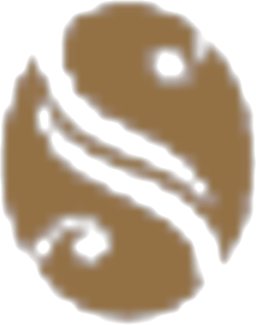
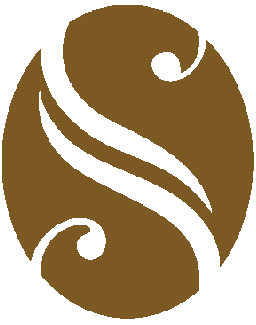
Edits

diff --git a/assets/css/style.css b/assets/css/style.css
@@ -223,8 +223,8 @@ html[dir="rtl"] .btn .ic.arrow{transform:scaleX(-1);}
 .hero-bg img{width:100%;height:100%;object-fit:cover;transform:scale(1.06);animation:heroZoom 14s var(--ease-out) forwards;}
 @keyframes heroZoom{to{transform:scale(1);}}
 .hero-scrim{position:absolute;inset:0;z-index:1;
-  background:linear-gradient(105deg,rgba(13,11,9,.94) 8%,rgba(13,11,9,.7) 42%,rgba(13,11,9,.32) 78%),linear-gradient(0deg,rgba(13,11,9,.9),rgba(13,11,9,0) 45%);}
-html[dir="rtl"] .hero-scrim{background:linear-gradient(255deg,rgba(13,11,9,.94) 8%,rgba(13,11,9,.7) 42%,rgba(13,11,9,.32) 78%),linear-gradient(0deg,rgba(13,11,9,.9),rgba(13,11,9,0) 45%);}
+  background:linear-gradient(105deg,rgba(13,11,9,.68) 8%,rgba(13,11,9,.42) 42%,rgba(13,11,9,.14) 78%),linear-gradient(0deg,rgba(13,11,9,.58),rgba(13,11,9,0) 45%);}
+html[dir="rtl"] .hero-scrim{background:linear-gradient(255deg,rgba(13,11,9,.68) 8%,rgba(13,11,9,.42) 42%,rgba(13,11,9,.14) 78%),linear-gradient(0deg,rgba(13,11,9,.58),rgba(13,11,9,0) 45%);}
 .hero-watermark{position:absolute;bottom:8%;inset-inline-start:0;width:100%;text-align:center;pointer-events:none;z-index:1;
   font-family:var(--font-display);font-weight:700;font-size:clamp(5rem,22vw,18rem);line-height:1;letter-spacing:.04em;
   color:rgba(243,237,225,.05);user-select:none;white-space:nowrap;}
@@ -240,13 +240,12 @@ html[lang="ar"] .hero-watermark{font-family:var(--font-ar-display);}
 html[lang="ar"] .hero h1.h-display .accent{font-family:var(--font-ar-serif);font-style:normal;}
 html[lang="ar"] .hero h1.h-display{line-height:1.28;}
 .hero .lead{color:rgba(243,237,225,.84);margin:26px 0 38px;max-width:520px;}
-.hero-cta{display:flex;flex-wrap:wrap;gap:16px;}
 
 /* floating stone medallion straddling hero/about seam */
 .rock-seam{position:relative;height:0;z-index:30;}
 .rock{position:absolute;left:50%;transform:translate(-50%,50%);bottom:0;
   width:clamp(170px,19vw,225px);aspect-ratio:1/1.02;
-  background-image:url('/assets/brand/stone-float.png');background-size:contain;background-repeat:no-repeat;background-position:center;
+  background-image:url('/assets/brand/shell-stone.png');background-size:contain;background-repeat:no-repeat;background-position:center;
   filter:drop-shadow(0 4px 10px rgba(13,11,9,.55)) drop-shadow(0 4px 10px rgba(13,11,9,.4));
   animation:rockFloat 6s ease-in-out infinite;}
 @keyframes rockFloat{0%,100%{transform:translate(-50%,50%)}50%{transform:translate(-50%,calc(50% - 12px))}}
@@ -301,11 +300,6 @@ html[lang="ar"] .strength{font-family:var(--font-ar-serif);font-size:1.02rem;}
   letter-spacing:.14em;font-size:14px;color:var(--ink-900);}
 html[lang="ar"] .about-stat__lbl{font-family:var(--font-ar-display);letter-spacing:0;text-transform:none;font-size:17px;}
 
-.about-swatches{grid-column:1;grid-row:2;display:grid;grid-template-columns:repeat(3,1fr);gap:0px;align-content:start;z-index:2;}
-.about-swatch{display:block;aspect-ratio:1/1;border-radius:0px;background-size:cover;background-position:center;
-  box-shadow:var(--shadow-sm);transition:transform var(--dur-base) var(--ease-out);}
-.about-swatch:hover{transform:scale(1.05);}
-
 .about-figure{grid-column:2;grid-row:1 / span 2;position:relative;margin:0;overflow:visible;}
 .about-figure img{position:relative;width:120%;height:120%;max-width:120%;bottom:30%;right:30%;object-fit:cover;transition:transform var(--dur-slow) var(--ease-out);border-radius:10px;overflow:hidden;box-shadow:var(--shadow-lg);}
 html[lang="ar"] .about-figure img{right:-30%;}
@@ -323,7 +317,6 @@ html[lang="ar"] .about-figure__badge span{font-family:var(--font-ar-sans);}
   .about-showcase{grid-template-columns:1fr 1fr;grid-template-rows:auto auto;gap:20px;}
   .about-figure{grid-column:1 / -1;grid-row:1;}
   .about-stat{grid-column:1;grid-row:2;align-self:center;}
-  .about-swatches{grid-column:2;grid-row:2;}
   .about-figure img{position:relative;width:100%;height:100%;max-width:min(100%, 500px);bottom:0;right:0;margin:auto;}
   html[lang="ar"] .about-figure img{right:0;}
 }
@@ -331,7 +324,6 @@ html[lang="ar"] .about-figure__badge span{font-family:var(--font-ar-sans);}
   .about-showcase{grid-template-columns:1fr;grid-template-rows:auto auto auto;}
   .about-figure{grid-column:1;grid-row:1;}
   .about-stat{grid-column:1;grid-row:2;align-self:start;}
-  .about-swatches{grid-column:1;grid-row:3;}
 }
 
 
@@ -422,43 +414,31 @@ html[lang="ar"] .why__item-tx h4{font-family:var(--font-ar-display);}
 .why__item-tx p{font-size:var(--text-sm);color:var(--text-muted);margin:0;line-height:1.6;}
 
 /* ============================================================ JOURNEY (process steps) ============================================================ */
-.journey{background:var(--ink-900);position:relative;overflow:hidden;}
-.journey::before{content:"";position:absolute;inset:0;opacity:.05;
-  background-image:radial-gradient(rgba(176,138,60,.6) 1px,transparent 1px);background-size:24px 24px;}
-.journey .section-head h2{color:var(--stone-50);}
-.journey .section-head .lead{color:var(--text-on-dark-muted);}
+.journey{background:linear-gradient(135deg,var(--gold-300),var(--gold-500));position:relative;overflow:hidden;}
+.journey::before{content:"";position:absolute;inset:0;opacity:.08;
+  background-image:radial-gradient(rgba(13,11,9,.6) 1px,transparent 1px);background-size:24px 24px;}
+.journey .overline{color:var(--ink-800);}
+.journey .overline::before,.journey .overline::after{background:var(--ink-700);}
+.journey .section-head h2{color:var(--ink-900);}
+.journey .section-head .lead{color:var(--ink-700);}
 .journey__steps{position:relative;display:grid;grid-template-columns:repeat(4,1fr);gap:var(--space-5);margin-top:var(--space-8);}
 @media(max-width:880px){.journey__steps{grid-template-columns:1fr 1fr;gap:var(--space-7) var(--space-5);}}
 @media(max-width:520px){.journey__steps{grid-template-columns:1fr;}}
 .jstep{position:relative;text-align:center;padding:0 var(--space-3);}
-.jstep__line{position:absolute;top:34px;height:1px;background:linear-gradient(90deg,transparent,rgba(176,138,60,.35),transparent);width:100%;z-index:0;}
+.jstep__line{position:absolute;top:34px;height:1px;background:linear-gradient(90deg,transparent,rgba(13,11,9,.3),transparent);width:100%;z-index:0;}
 html[dir="ltr"] .jstep__line{left:50%;}
 html[dir="rtl"] .jstep__line{right:50%;}
 .jstep:last-child .jstep__line{display:none;}
 @media(max-width:880px){.jstep__line{display:none;}}
 .jstep__num{position:relative;z-index:1;width:68px;height:68px;margin:0 auto var(--space-5);border-radius:var(--radius-circle);
-  background:var(--ink-800);border:1px solid rgba(176,138,60,.4);display:flex;align-items:center;justify-content:center;
-  font-family:var(--font-display);font-size:var(--text-xl);color:var(--gold-300);transition:all var(--dur-base) var(--ease-out);}
-.jstep:hover .jstep__num{background:var(--gold-500);color:var(--ink-900);border-color:var(--gold-500);transform:translateY(-4px);box-shadow:0 10px 26px rgba(176,138,60,.35);}
-.jstep__ic{position:absolute;bottom:-6px;right:-6px;width:28px;height:28px;border-radius:var(--radius-circle);background:var(--gold-500);
-  display:flex;align-items:center;justify-content:center;color:var(--ink-900);}
-.jstep h4{font-family:var(--font-display);font-size:var(--text-lg);color:var(--stone-50);margin-bottom:.4em;letter-spacing:.03em;}
+  background:var(--ink-900);border:1px solid rgba(13,11,9,.5);display:flex;align-items:center;justify-content:center;
+  font-family:var(--font-display);font-size:var(--text-xl);color:var(--gold-200);transition:all var(--dur-base) var(--ease-out);}
+.jstep:hover .jstep__num{background:var(--stone-50);color:var(--ink-900);border-color:var(--stone-50);transform:translateY(-4px);box-shadow:0 10px 26px rgba(13,11,9,.3);}
+.jstep__ic{position:absolute;bottom:-6px;right:-6px;width:28px;height:28px;border-radius:var(--radius-circle);background:var(--ink-900);
+  display:flex;align-items:center;justify-content:center;color:var(--gold-300);}
+.jstep h4{font-family:var(--font-display);font-size:var(--text-lg);color:var(--ink-900);margin-bottom:.4em;letter-spacing:.03em;}
 html[lang="ar"] .jstep h4{font-family:var(--font-ar-display);}
-.jstep p{font-size:var(--text-sm);color:var(--text-on-dark-muted);margin:0;line-height:1.6;}
-
-/* ============================================================ TESTIMONIAL ============================================================ */
-.testimonial{background:var(--surface-cream);position:relative;}
-.testimonial__inner{max-width:860px;margin:0 auto;text-align:center;}
-.testimonial__mark{font-family:var(--font-display);font-size:5rem;line-height:.6;color:var(--gold-300);margin-bottom:var(--space-4);}
-.testimonial__quote{font-family:var(--font-serif);font-size:clamp(1.5rem,3vw,var(--text-2xl));line-height:1.5;
-  color:var(--text-strong);font-style:italic;margin-bottom:var(--space-6);}
-html[lang="ar"] .testimonial__quote{font-family:var(--font-ar-serif);font-style:normal;}
-.testimonial__author{display:flex;flex-direction:column;align-items:center;gap:.3em;}
-.testimonial__author .nm{font-family:var(--font-display);font-size:var(--text-md);letter-spacing:.12em;color:var(--text-strong);}
-html[lang="ar"] .testimonial__author .nm{font-family:var(--font-ar-display);letter-spacing:.03em;}
-.testimonial__author .role{font-family:var(--font-sans);font-size:var(--text-xs);letter-spacing:.1em;text-transform:uppercase;color:var(--text-gold);}
-html[lang="ar"] .testimonial__author .role{font-family:var(--font-ar-sans);letter-spacing:.03em;}
-.testimonial__stars{display:flex;justify-content:center;gap:.25em;color:var(--gold-400);margin-bottom:var(--space-5);}
+.jstep p{font-size:var(--text-sm);color:var(--ink-800);margin:0;line-height:1.6;}
 
 /* ============================================================ PROJECTS ============================================================ */
 .projects{background:var(--surface-page);}

diff --git a/index.html b/index.html
@@ -79,7 +79,6 @@
   <div class="hero-watermark" data-i18n="hero.watermark">MARBLE</div>
   <div class="container">
     <div class="hero-inner">
-      <span class="overline reveal" data-i18n="hero.eyebrow">Latakia · Syria — From the quarry</span>
       <h1 class="h-display reveal reveal-delay-1">
         <span data-i18n="hero.title">The Main Source of</span>
         <span class="accent" data-i18n="hero.title.accent">Shell Stones</span>
@@ -87,13 +86,6 @@
       <p class="lead reveal reveal-delay-2" data-i18n="hero.sub">
         We extract, process and supply natural shell stone — limestone rich with shells and fossils — from our own quarries on the Syrian coast, with uncompromising quality and on-time delivery.
       </p>
-      <div class="hero-cta reveal reveal-delay-3">
-        <a href="#contact" class="btn btn-gold">
-          <span data-i18n="hero.cta">Contact Us</span>
-          <svg class="ic arrow" viewBox="0 0 24 24" fill="none" stroke="currentColor" stroke-width="2"><path d="M5 12h14M13 6l6 6-6 6"/></svg>
-        </a>
-        <a href="#projects" class="btn btn-ghost" data-i18n="hero.cta2">View Projects</a>
-      </div>
     </div>
   </div>
 </section>
@@ -142,15 +134,6 @@
       <div class="about-stat">
         <div class="about-stat__num">25<span class="about-stat__plus">+</span></div>
         <div class="about-stat__lbl" data-i18n="about.badge">Years in stone</div>
-      </div>
-
-      <div class="about-swatches" aria-hidden="true">
-        <span class="about-swatch" style="background-image:url('/assets/textures/perlato.jpg')"></span>
-        <span class="about-swatch" style="background-image:url('/assets/textures/desert-gold.jpg')"></span>
-        <span class="about-swatch" style="background-image:url('/assets/textures/shanoon-beige.jpg')"></span>
-        <span class="about-swatch" style="background-image:url('/assets/textures/cedar-beige.jpg')"></span>
-        <span class="about-swatch" style="background-image:url('/assets/textures/thorontia.jpg')"></span>
-        <span class="about-swatch" style="background-image:url('/assets/textures/shanoon-sand.jpg')"></span>
       </div>
 
       <figure class="about-figure">
@@ -323,27 +306,6 @@
   </div>
 </section>
 
-<!-- ============================================================ TESTIMONIAL ============================================================ -->
-<section class="section testimonial">
-  <div class="container">
-    <div class="testimonial__inner reveal">
-      <div class="testimonial__stars">
-        <svg width="20" height="20" viewBox="0 0 24 24" fill="currentColor"><path d="M12 2l2.4 7.4H22l-6 4.5 2.3 7.1-6.3-4.6L5.7 21 8 14 2 9.4h7.6z"/></svg>
-        <svg width="20" height="20" viewBox="0 0 24 24" fill="currentColor"><path d="M12 2l2.4 7.4H22l-6 4.5 2.3 7.1-6.3-4.6L5.7 21 8 14 2 9.4h7.6z"/></svg>
-        <svg width="20" height="20" viewBox="0 0 24 24" fill="currentColor"><path d="M12 2l2.4 7.4H22l-6 4.5 2.3 7.1-6.3-4.6L5.7 21 8 14 2 9.4h7.6z"/></svg>
-        <svg width="20" height="20" viewBox="0 0 24 24" fill="currentColor"><path d="M12 2l2.4 7.4H22l-6 4.5 2.3 7.1-6.3-4.6L5.7 21 8 14 2 9.4h7.6z"/></svg>
-        <svg width="20" height="20" viewBox="0 0 24 24" fill="currentColor"><path d="M12 2l2.4 7.4H22l-6 4.5 2.3 7.1-6.3-4.6L5.7 21 8 14 2 9.4h7.6z"/></svg>
-      </div>
-      <div class="testimonial__mark">"</div>
-      <p class="testimonial__quote" data-i18n="testi.quote">An extremely helpful team that understood our requirements precisely. The quality of the stone and the commitment to delivery were better than anywhere else we looked.</p>
-      <div class="testimonial__author">
-        <span class="nm" data-i18n="testi.name">Architectural Partner</span>
-        <span class="role" data-i18n="testi.role">Coastal residence project</span>
-      </div>
-    </div>
-  </div>
-</section>
-
 <!-- ============================================================ CONTACT ============================================================ -->
 <section class="section contact" id="contact">
   <div class="container">
@@ -360,7 +322,7 @@
           </div>
           <div class="cinfo">
             <div class="cinfo__ic"><svg width="20" height="20" viewBox="0 0 24 24" fill="none" stroke="currentColor" stroke-width="2"><path d="M22 16.92v3a2 2 0 0 1-2.18 2 19.79 19.79 0 0 1-8.63-3.07 19.5 19.5 0 0 1-6-6 19.79 19.79 0 0 1-3.07-8.67A2 2 0 0 1 4.11 2h3a2 2 0 0 1 2 1.72c.13.94.36 1.85.7 2.73a2 2 0 0 1-.45 2.11L8.09 9.91a16 16 0 0 0 6 6l1.35-1.35a2 2 0 0 1 2.11-.45c.88.34 1.79.57 2.73.7A2 2 0 0 1 22 16.92z"/></svg></div>
-            <div class="cinfo__tx"><div class="k" data-i18n="contact.phone.k">Phone &amp; Fax</div><div class="v" dir="ltr">[phone redacted] · [phone redacted]</div></div>
+            <div class="cinfo__tx"><div class="k" data-i18n="contact.phone.k">Phone &amp; Fax</div><div class="v" dir="ltr">[phone redacted] · [phone redacted]</div></div>
           </div>
           <div class="cinfo">
             <div class="cinfo__ic"><svg width="20" height="20" viewBox="0 0 24 24" fill="none" stroke="currentColor" stroke-width="2"><rect x="2" y="4" width="20" height="16" rx="2"/><path d="M22 7l-10 5L2 7"/></svg></div>
@@ -425,7 +387,7 @@
         <h4 data-i18n="footer.reach">Reach us</h4>
         <ul>
           <li class="footer__contact-item" data-i18n="contact.addr.v">Latakia, Syria — Industrial & quarry zone</li>
-          <li class="footer__contact-item" dir="ltr">[phone redacted]</li>
+          <li class="footer__contact-item" dir="ltr">[phone redacted]</li>
           <li class="footer__contact-item" dir="ltr"><a href="mailto:[email redacted]">[email redacted]</a></li>
           <li class="footer__contact-item" dir="ltr"><a href="https://www.shrayfy.com" target="_blank" rel="noopener">www.shrayfy.com</a></li>
         </ul>

diff --git a/assets/js/lang.js b/assets/js/lang.js
@@ -3,10 +3,9 @@ const I18N = {
   en:{
     "brand.tag":"Marble & Granite",
     "nav.home":"Home","nav.about":"About","nav.products":"Products","nav.journey":"Process","nav.projects":"Projects","nav.contact":"Contact",
-    "hero.eyebrow":"Latakia · Syria — From the quarry",
     "hero.title":"The Main Source of","hero.title.accent":"Shell Stones",
     "hero.sub":"We extract, process and supply natural shell stone — limestone rich with shells and fossils — from our own quarries on the Syrian coast, with uncompromising quality and on-time delivery.",
-    "hero.cta":"Contact Us","hero.cta2":"View Projects","hero.scroll":"Scroll","hero.watermark":"MARBLE",
+    "hero.scroll":"Scroll","hero.watermark":"MARBLE",
     "hero.meta.brand":"Shell Stone · Marble · Granite",
     "hero.meta.location":"Latakia, Syria — Own quarries",
     "hero.meta.quality":"Quarry-direct · Premium grade",
@@ -45,8 +44,6 @@ const I18N = {
     "journey.2.t":"Cut into slabs","journey.2.d":"Blocks are cut into parallel slabs, revealing the beauty within each stone.",
     "journey.3.t":"Treated & reinforced","journey.3.d":"Resin fills natural pores and cracks, strengthening every slab.",
     "journey.4.t":"Finished & cut to size","journey.4.d":"Polished or honed, then cut to the exact dimensions your project needs.",
-    "testi.quote":"An extremely helpful team that understood our requirements precisely. The quality of the stone and the commitment to delivery were better than anywhere else we looked.",
-    "testi.name":"Architectural Partner","testi.role":"Coastal residence project",
     "projects.eyebrow":"Selected work","projects.title":"Our projects",
     "projects.lead":"From coastal villas to classical façades — natural stone shaped into landmarks that last.",
     "projects.cat.villa":"Villa & pool","projects.cat.facade":"Classical façade","projects.cat.interior":"Interior","projects.cat.detail":"Architectural detail","projects.cat.pool":"Poolside paving",
@@ -65,10 +62,9 @@ const I18N = {
   ar:{
     "brand.tag":"الرخام والغرانيت",
     "nav.home":"الرئيسية","nav.about":"عن الشركة","nav.products":"منتجاتنا","nav.journey":"مراحل العمل","nav.projects":"مشاريعنا","nav.contact":"تواصل معنا",
-    "hero.eyebrow":"اللاذقية · سوريا — من المحجر",
     "hero.title":"المصدر الأول","hero.title.accent":"لأحجار الأصداف",
     "hero.sub":"نقوم باستخراج ومعالجة وتوريد أحجار الأصداف الطبيعية — وهي حجر كلسي غنيّ بالأصداف والأحافير — من محاجرنا الخاصة على الساحل السوري، بجودة عالية والتزام تام بالمواعيد.",
-    "hero.cta":"تواصل معنا","hero.cta2":"مشاريعنا","hero.scroll":"مرّر للأسفل","hero.watermark":"رخام",
+    "hero.scroll":"مرّر للأسفل","hero.watermark":"رخام",
     "hero.meta.brand":"أحجار الأصداف · رخام · غرانيت",
     "hero.meta.location":"اللاذقية، سوريا — محاجر خاصة",
     "hero.meta.quality":"من المحجر مباشرة · جودة ممتازة",
@@ -107,8 +103,6 @@ const I18N = {
     "journey.2.t":"التقطيع إلى ألواح","journey.2.d":"تُقطَّع الكتل إلى ألواح متوازية تكشف جمال كل حجر.",
     "journey.3.t":"المعالجة والتقوية","journey.3.d":"تملأ الراتنجات المسامات والشقوق الطبيعية لتقوية كل لوح.",
     "journey.4.t":"التشطيب والقصّ بالمقاس","journey.4.d":"صقل أو إطفاء، ثم قصّ بالأبعاد الدقيقة التي يحتاجها مشروعك.",
-    "testi.quote":"فريق متعاون للغاية فهم متطلباتنا بدقّة. كانت جودة الحجر والالتزام بالتسليم أفضل من أي مكان آخر بحثنا فيه.",
-    "testi.name":"شريك معماري","testi.role":"مشروع إقامة ساحلية",
     "projects.eyebrow":"أعمال مختارة","projects.title":"مشاريعنا",
     "projects.lead":"من الفلل الساحلية إلى الواجهات الكلاسيكية — حجر طبيعي يتحوّل إلى معالم تدوم.",
     "projects.cat.villa":"فيلا ومسبح","projects.cat.facade":"واجهة كلاسيكية","projects.cat.interior":"تصميم داخلي","projects.cat.detail":"تفصيل معماري","projects.cat.pool":"تبليط حول المسبح",